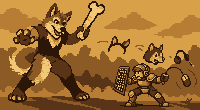
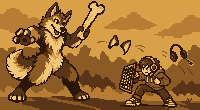
feat(art): high-density Furiell redesign, Floofy battle sheets, and opening props
- High-density spritesheets for redesigned Furiell across overworld, combat, and portraits
- Floofy battle spritesheet and dynamic close-up / wide-angle perspective sheets
- Character animation frames for falling and landing sequences
- Polished prop sprites for registration room, switches, and puzzle chambers

diff --git a/BACKLOG.md b/BACKLOG.md
@@ -377,7 +377,7 @@ Each decision has a **recommendation**. The ones closed by the LORE are kept her
 | **BUG-57** | `ruins_fall`, Tide Pod at (404, 272) | **The Tide Pod overlaps the right edge of the flower bed** (the bed spans x 224..416, y 212..300). | Move it a few steps from the bed toward the Con doors, as if it bounced further than Grub (LORE v3.5 §12 R1). **P1 · S** |
 | **BUG-58** | `assets/tiles/landing_bg.png`, `props/ruins_landing_flowerbed.png` | **R1 is too saturated** (vivid purple floor, bright yellow and green in the bed) for the bottom of an abyss, and **the trash painted into the background** (brown package at ~(160, 240), white paper at ~(490, 245), debris on the edges) has the same brightness, saturation and dark outline as the real examinables (Tide Pod, can), so players can't tell what can be examined. | Desaturate the cave to nearly monochrome; only the flower bed keeps its color (the user liked the bed itself). Background trash dimmed, no outline, low contrast; real examinables keep the outline. New art in ART-185 (ChatGPT, D-22). **P0 · M** |
 | **BUG-59** | `assets/props/petal_trail.png` (96×16) in R1b | **The petal trail is one horizontal strip** that doesn't lead to the lounge door. | A trail that follows the corridor to the door (straight and corner pieces, or several placed decals), reusable in later rooms as Floofy's sign (LORE v3.5 §6.5). Art in ART-185. **P1 · S** |
-| **BUG-60** | `ruins_switches` (R4), `props/ruins_rgb_*`, `ruins_cables` | **R4 still plays the pre-v3.1 puzzle** (three glitter-marked switches and a cable barrier) with flat, unloved art; the LORE v3.1 Lights Out keyboard was never built. | Rebuild per C1-004 (v3.5): mechanical-switch keys, Lights Out on neighbors, cables, a shutter door that slides up. **P1 · M** |
+| **BUG-60** | `ruins_switches` (R4), `props/ruins_rgb_*`, `ruins_cables` | **R4's art is flat and unloved**, and a cable barrier stands where the shutter door should be. (Corrected 2026-11-01: the review said the old 3-switch puzzle was still in; it isn't, the five-key Lights Out keyboard is built and tested, suite C1-004.) New art exists (ART-185 row 16). | Rebuild per C1-004 (v3.5): mechanical-switch keys, Lights Out on neighbors, cables, a shutter door that slides up. **P1 · M** |
 | **BUG-61** | `sprites/ow/grub_pawsome.png`, `grub_wakeup.png`, `grub_goblin.*`, `grub_ears/paws/tail/snout.*`, `pepe_*` | **Legacy protagonist sheets still in `assets/`:** `grub_pawsome.png` and `grub_wakeup.png` still draw the v3 green goblin (checked 2026-10-31). None is referenced by a map or cutscene, but `grub_pawsome` is the file the conversion ending will look for. | Redraw Grub the Pawsome as the mint-green wolf with the blanket cape and headset (ART-101, ART-185). Delete the goblin and frog sheets once nothing refers to them (grep `data/`, `tools/`, `src/`). **P1 · S** (delete) / **M** (Pawsome) |
 | **BUG-62** | `props/ruins_banner_deodorant.png`, `props/ruins_wrapper_pile.png` (R3) | The deodorant banner is a blurred lilac strip with **no readable text**; the "pile of Dorito bags" (`* A pile of Dorito bags. *crunch*`) reads as **purple, blue and lime plastic blocks**. | Redraw both for the new R3 look (C1-003): the banner with readable `Deodorant is NOT optional` (lettering restored by hand, ART-181 rule), dusty crumpled triangle bags in Doritos red. ART-185. **P1 · S** |
 | **BUG-63** | `src/ui/DialogBox.cpp`, TXT-005 | **Dialogue portraits are never drawn.** TXT-005 is marked done, but no code in `src/` or `include/` mentions a portrait; the 15 files in `assets/portraits/` (Furiell, Floofy, Barky, the Pawsome reflection) are unused. Same as synergy-2 task T55. | A `portrait` field on dialogue lines and cutscene `say` steps, drawn on the left at 2× with the text shifted right (TXT-005's layout). Wire the R2/R3/R5 lines, including the R2 silhouette (C1-002). TXT-005 is reopened as `[~]`. **P0 · M** |
@@ -2932,7 +2932,7 @@ P0 · L · D-22, BUG-45, BUG-46, BUG-48, BUG-51
 - **Safety re-check (2026-10-30, after the user's graphics-driver crashes):** all 162 PNGs load; every file in the list matches its final ChatGPT output and differs from the run's version. Still below the bar and redone: **Floofy's battle sheet** (the model draws lines thinner than a 50×60 pixel, so every decode speckled) is now area-decoded at **density 2** (100×120 cells; new `"density"` key in sprite-sheet JSON, `SpriteDraw` divides the draw scale by it); the **soaked portrait** is an edit of the clean `floofy_cute`; **card 8** was redrawn with the old figure erased (Grub big and clear); the run's broken sign lettering (`TEMPOR ARILY`, a clipped `FURSONA PARENTS`) is restamped in a 3×5 font (`OUT OF / ORDER`, new panel-door plates); `grub_fur.png` holds the four full FUR stage sheets FUR-007 asks for instead of speckled difference overlays; the retired `ruins_plush_pile` is deleted. The run's generator scripts in `tools/art/*` (cards12, cards810, doorways, dummy, floofy_*, furiell_ow, grub*, landing, lounge, package, petals, portraits, r13, r1ab, souls, water_burst) write the old low-quality art into `assets/`: **never re-run them** (D-22).
 - **Reports (2026-10-30):** `docs/reports/2026-10-30_round7_art_updates.pdf` (all 64 images, before/after plus a capture of each one in the running game) and `docs/reports/2026-10-30_ruins_intro_to_dummy_map.pdf` (the route from the intro to the Dummy fight, every room stitched at one scale with every placed element). The captures turned up BUG-54.
 
-#### ART-185 — Art orders from the 2026-10-31 playtest `[ ]`
+#### ART-185 — Art orders from the 2026-10-31 playtest `[~]`
 P0→P3 · XL · D-20, D-22, D-24, LORE v3.5
 - **What:** everything the 2026-10-31 notes ask to redraw or add. Same rules as ART-183/184: ChatGPT image gen interactively (`chatgpt-imagegen`, macro-pixel for small sprites, D-22; never inside a synergy run), the sprite outline rules, sign lettering restored by hand, checked at 2× in the game before replacing. Some sheets were made before the generation procedure was settled and never fixed; **delete and redo** means start from a new brief, not an edit of the current file.
 
@@ -2961,6 +2961,12 @@ P0→P3 · XL · D-20, D-22, D-24, LORE v3.5
 - **Audio, same rule (D-22, made interactively):** the floor-message chime (OVW-022), the R1 landing thud, the muffled thud for C1-015, the switch click and shutter (C1-004), the giant petal's buzz.
 - **Reviewed and fine, keep (review suggestion, user overrides applied):** cards 1, 3, 4, 5, 6, 7, 8, 10; `sprites/ow/grub.png`, `barky.png`, `fursuit_dummy.png`; battle `barky`, `fursuit_dummy`, `reply_guy`, `shysona`; UI `buttons`, `souls`, `slash`, `water_burst`; the Ruins bullets; the R1, R1a, R1b and lounge props and the later-room props listed in the review. Not on this list despite the review: `sprites/ow/furiell.png` and `battle/furiell.png` (D-24) and `floofy_close.png` (row 7).
 - **Acceptance:** each row replaced only after its before/after preview at integer zoom and an in-game check at 2×; rows 7–8 are needed by C1-028 (R12a).
+- **Round 8 (2026-11-01, ChatGPT image gen, macro-pixel):** 49 generations (31 + 10 + 1 + 5, plus two 2-variation portrait tries), 0 failures; pipeline in `../nundertale_sprite_audit/regen_r8/` (`targets_r8.py`, `regen.py prepare|finish|post`, plus `fit_decode.py` and `box_decode.py` for outputs drawn off the guide grid). All 125 test suites pass with the new files. **Not yet checked in the running game at 2×.**
+  - **In `assets/`, replacing the old file:** cards 2 and 9 (rows 1–2); Floofy's overworld sheet with the redrawn back view in row 6 and new rows 11 `landing_idle` and 12 `landing_impact` (rows 3–4); Grub's sheet with new rows 6 `fall` and 7 `stunned` (row 5); Floofy's battle sheet at **60×80, density 1** (the density-2 sheet is gone, row 6); the Bass Shake close-up as the meme's high-angle chibi head shake, 4 expressions × 3 frames (row 7); the wide shot at 60×80 (row 8); Furiell's overworld sheet, battle sprite and five portraits in the D-24 look (row 11); the desaturated Landing background (row 12; the flower bed kept as it was); the deodorant banner with `DEODORANT IS / NOT OPTIONAL` stamped in the 3×5 font and the chip pile (row 15); Grub the Pawsome as the mint wolf (row 17).
+  - **New files, not wired yet:** `bullets/giant_petal` (row 9, C1-002), `portraits/furiell_silhouette` (row 10; built from the neutral portrait's shape, the generated one had a dotted outline), `props/petal_trail_pieces` (12 decals, row 13, BUG-59), `props/floofy_badge`, `props/ruins_reg_turnstile` (rows 14, 14b, C1-015), the R3 hall props `ruins_hall_welcome_sign|scanner|schedule|bench|snacks|light` and the tileset `tiles/ruins_hall.png` (row 15, C1-003), `props/ruins_mech_keys` (24×24, off/on per colour), `ruins_mech_keyboard` (136×28), `ruins_floor_cables`, `ruins_switch_door` (5-frame shutter + open row) (row 16, C1-004), `props/strange_beacon` (row 18, C1-029). The R4 art got new names because the map builder lays out the old 18-px keys (`ruins_rgb_*` stay until C1-004 swaps them).
+  - **Weaker, worth another pass:** the chip pile still reads as triangles (big Doritos rather than bags); the hall tileset is usable material but not a clean tile grid (redo when R3's layout exists); Floofy's sinister and soaked battle rows are acceptable after one retouch; the Bass Shake wide shot's hurt frame touches the cell edge.
+  - **Furiell's portraits redone (2026-11-01, user review):** the first set (edits of the old 50x50 portrait) lost the look the user liked, and a hand-placed 50x50 attempt (no image model) didn't work either. Final: a ChatGPT neutral drawn with Floofy's portrait attached at 25x (the model copies the reference's block size), the five other expressions as ChatGPT edits of that same image, all decoded on the image's own grid (`portrait_decode.py`). The art's lines are half a block thick, so the portraits ship at **100x100 with `"density": 2`** in a sidecar JSON (same on-screen size as a 50x50 portrait); at 50x50 the faces broke up. The silhouette's outline is rebuilt from its shape. When BUG-63 wires portraits, the loader must read that `density`. Floofy's and Barky's portraits are still 50x50.
+  - **Pipeline notes:** for blank guides the model often draws over the whole canvas instead of the guide area; `fit_decode.py` (per-figure block size search) and `box_decode.py` (box average + threshold at a fixed height, white-on-black art) recover those. 50×50 portraits only came out at the right density as **edits of an existing 50×50 portrait**; a high-resolution reference image gets copied instead.
 
 ---
 
